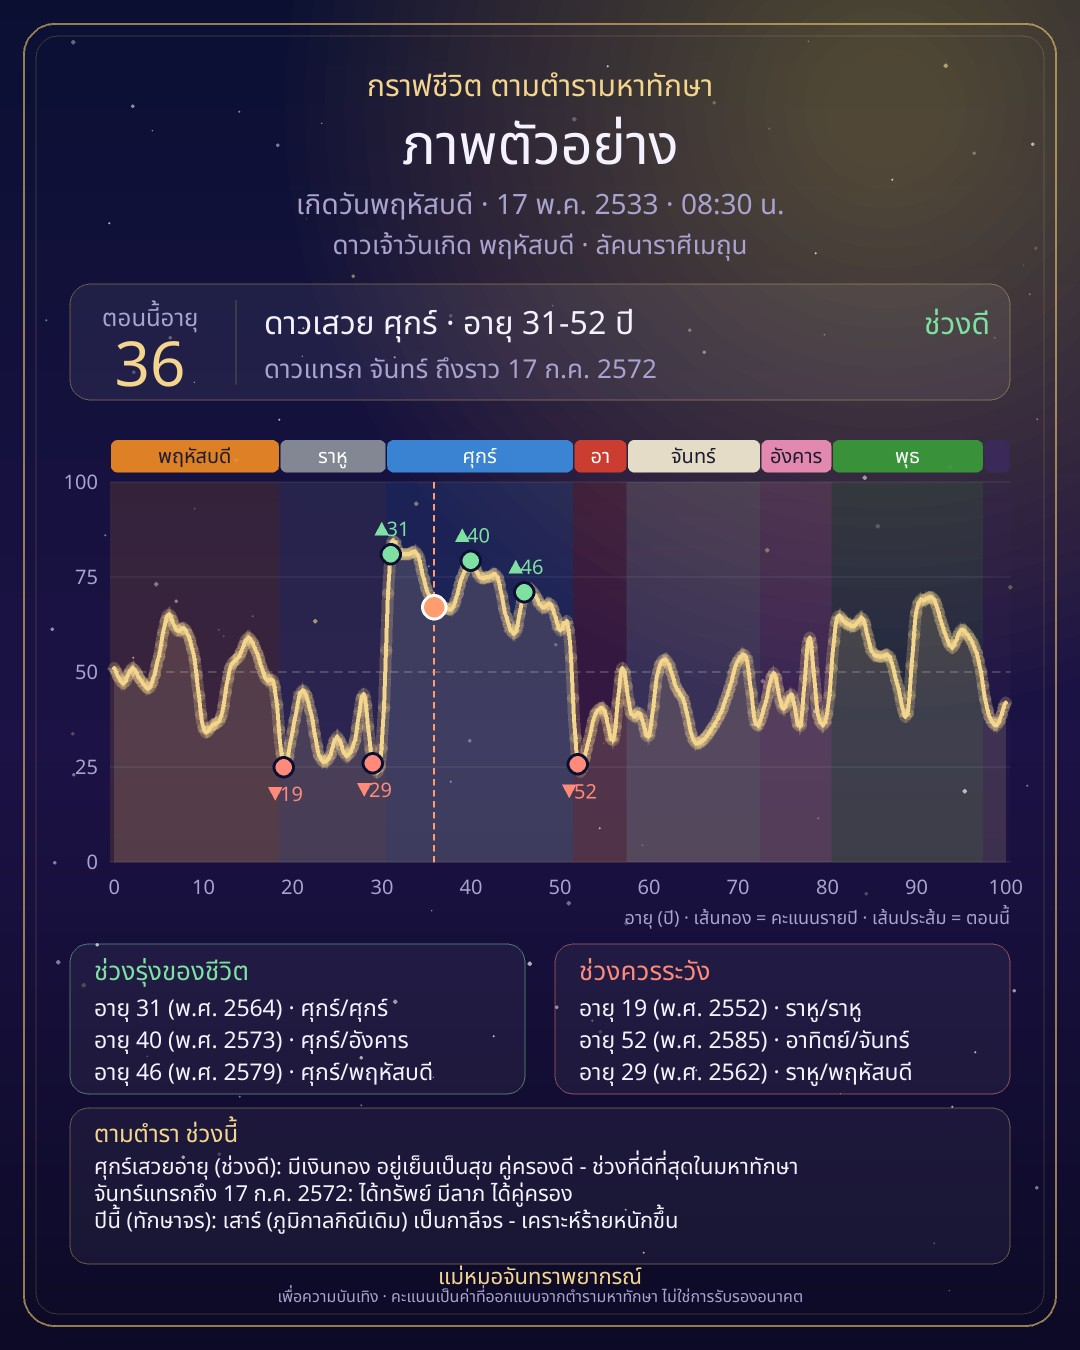
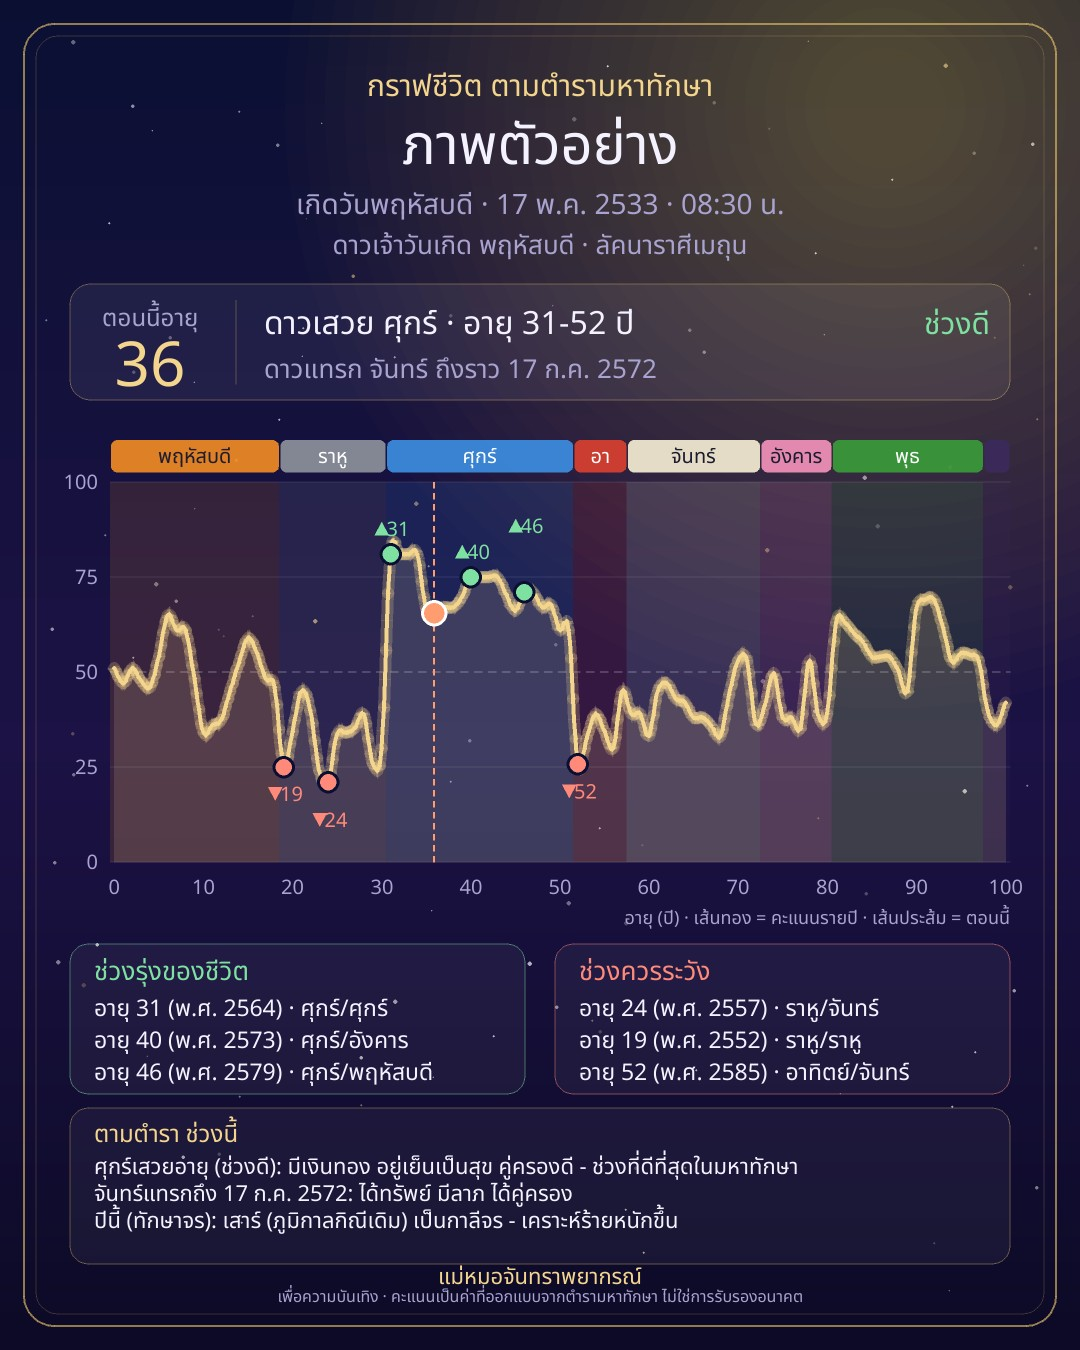
fix(fortune): life graph v3 — generic planet-pair score no longer overrides the ตำรา sub-period tone
Same fix as GenLotto: the คู่ดาว weight (±6) was added on top of the
specific เสวย-แทรก ตำรา (±5), so 5 สมพล pairs the ตำรา calls ร้าย scored
net positive. Pair now applies only where no SUB reading exists. Drop the
horasatthai citation from 4 SUB entries that site doesn't have (each still
has 2 sources). Parity fixtures regenerated from GenLotto v3; sales sample
life graph re-rendered.

diff --git a/app/Services/Fortune/LifeGraphTexts.php b/app/Services/Fortune/LifeGraphTexts.php
@@ -120,7 +120,7 @@ final class LifeGraphTexts
         // พุธเสวย
         '4-4' => ['tone' => 'ดี', 'text' => 'เงินทองและของมีค่าเพิ่มพูน ร่ำรวยขึ้น', 'src' => ['phromchat', 'horasatthai', 'thasung']],
         '4-7' => ['tone' => 'ร้าย', 'text' => 'ระวังพลัดพรากหรือสูญเสียของรัก', 'src' => ['phromchat', 'horasatthai', 'thasung']],
-        '4-5' => ['tone' => 'ผสม', 'text' => 'ได้ลาภจากผู้ใหญ่ แต่ไม่ควรเดินทางไกล ระวังภัยและโจร', 'src' => ['phromchat', 'horasatthai', 'thasung']],
+        '4-5' => ['tone' => 'ผสม', 'text' => 'ได้ลาภจากผู้ใหญ่ แต่ไม่ควรเดินทางไกล ระวังภัยและโจร', 'src' => ['phromchat', 'thasung']],
         '4-8' => ['tone' => 'ร้าย', 'text' => 'มีศัตรูผู้มีกำลัง ระวังอัคคีภัยและเจ็บไข้', 'src' => ['phromchat', 'horasatthai', 'thasung']],
         '4-6' => ['tone' => 'ดี', 'text' => 'มีลาภมาก', 'src' => ['phromchat', 'horasatthai', 'thasung']],
         '4-1' => ['tone' => 'ร้าย', 'text' => 'ระวังต้องโทษ มีอุปสรรค เสียทรัพย์', 'src' => ['phromchat', 'horasatthai', 'thasung']],
@@ -128,7 +128,7 @@ final class LifeGraphTexts
         '4-3' => ['tone' => 'ร้าย', 'text' => 'มีคดีความ ร้อนใจเรื่องบ้านและคนในบ้าน ระวังศัตรูและโจร', 'src' => ['phromchat', 'horasatthai', 'thasung']],
         // เสาร์เสวย
         '7-7' => ['tone' => 'ร้าย', 'text' => 'มีภัย เสียทรัพย์ ระวังโรคทางท้อง', 'src' => ['phromchat', 'horasatthai', 'thasung']],
-        '7-5' => ['tone' => 'ผสม', 'text' => 'ได้ลาภจากผู้ใหญ่หรือครูอาจารย์ แต่เดินทางไกลแล้วจะเสีย', 'src' => ['phromchat', 'horasatthai', 'thasung']],
+        '7-5' => ['tone' => 'ผสม', 'text' => 'ได้ลาภจากผู้ใหญ่หรือครูอาจารย์ แต่เดินทางไกลแล้วจะเสีย', 'src' => ['phromchat', 'thasung']],
         '7-8' => null, // ขัดกัน: พรหมชาติ/วัดท่าซุงว่าเสียก่อนแล้วได้ลาภ · horasatthai ว่าร้ายล้วน
         '7-6' => ['tone' => 'ผสม', 'text' => 'ช่วงแรกเสียของ มีเรื่องเพราะผู้หญิง ภายหลังมิตรให้ลาภ', 'src' => ['phromchat', 'horasatthai', 'thasung']],
         '7-1' => ['tone' => 'ร้าย', 'text' => 'เสียทรัพย์ ร้อนใจ มีเรื่องในครอบครัว', 'src' => ['phromchat', 'horasatthai', 'thasung']],
@@ -139,7 +139,7 @@ final class LifeGraphTexts
         '5-5' => ['tone' => 'ดี', 'text' => 'ผู้ใหญ่ให้ลาภ ได้ยศและชื่อเสียง', 'src' => ['phromchat', 'horasatthai', 'thasung']],
         '5-8' => ['tone' => 'ผสม', 'text' => 'ได้แล้วเสีย เสียทรัพย์ ร้อนใจเรื่องคนรัก', 'src' => ['phromchat', 'horasatthai', 'thasung']],
         '5-6' => ['tone' => 'ดี', 'text' => 'มีลาภมาก สุขสบาย', 'src' => ['phromchat', 'horasatthai', 'thasung']],
-        '5-1' => ['tone' => 'ผสม', 'text' => 'ได้ลาภ แต่ระวังปวดศีรษะหรือเจ็บที่ใบหน้า', 'src' => ['phromchat', 'horasatthai', 'thasung']],
+        '5-1' => ['tone' => 'ผสม', 'text' => 'ได้ลาภ แต่ระวังปวดศีรษะหรือเจ็บที่ใบหน้า', 'src' => ['phromchat', 'thasung']],
         '5-2' => null, // ขัดกัน: พรหมชาติ/horasatthai ว่าระวังผู้หญิง สูญทรัพย์ · วัดท่าซุงว่าได้ลาภ
         '5-3' => ['tone' => 'ร้าย', 'text' => 'ระวังคดีความ เสียทรัพย์', 'src' => ['phromchat', 'horasatthai', 'thasung']],
         '5-4' => ['tone' => 'ดี', 'text' => 'มีลาภ ได้ที่ดินไร่นา มีชื่อเสียง', 'src' => ['phromchat', 'horasatthai', 'thasung']],
@@ -148,7 +148,7 @@ final class LifeGraphTexts
         '8-8' => ['tone' => 'ร้าย', 'text' => 'เจ็บป่วย ระวังโรคทางท้อง และการสูญเสียในครอบครัว', 'src' => ['phromchat', 'horasatthai', 'thasung']],
         '8-6' => ['tone' => 'ดี', 'text' => 'มีลาภเข้า', 'src' => ['phromchat', 'horasatthai', 'thasung']],
         '8-1' => null, // ขัดกัน: ลำดับได้-เสียกลับกันระหว่างพรหมชาติ/horasatthai กับวัดท่าซุง
-        '8-2' => ['tone' => 'ร้าย', 'text' => 'ผู้ใหญ่ไม่พอใจ ถูกใส่ความ ระวังแพ้คดี', 'src' => ['phromchat', 'horasatthai', 'thasung']],
+        '8-2' => ['tone' => 'ร้าย', 'text' => 'ผู้ใหญ่ไม่พอใจ ถูกใส่ความ ระวังแพ้คดี', 'src' => ['phromchat', 'thasung']],
         '8-3' => ['tone' => 'ร้าย', 'text' => 'มีภัย ระวังเลือดตกยางออก เสียทรัพย์', 'src' => ['phromchat', 'horasatthai', 'thasung']],
         '8-4' => ['tone' => 'ผสม', 'text' => 'ได้ลาภก่อน แล้วเสียทรัพย์ภายหลัง', 'src' => ['phromchat', 'horasatthai', 'thasung']],
         '8-7' => ['tone' => 'ดี', 'text' => 'ได้ลาภ โดยเฉพาะจากมิตรสหาย', 'src' => ['phromchat', 'horasatthai', 'thasung']],

diff --git a/tests/Unit/Services/LifeGraphTest.php b/tests/Unit/Services/LifeGraphTest.php
@@ -27,13 +27,13 @@ class LifeGraphTest extends TestCase
 
     /** [วันเกิด, ชั่วโมงเกิด, จังหวัด, md5(json คะแนนอายุ 0–100), ช่วงดาวเสวย, พีค, ต่ำ, บรรทัดการ์ด 2 บรรทัดแรก] */
     private const GENLOTTO = [
-        ['1990-05-16', 21.5, 'กรุงเทพมหานคร', 'a68ca87be40feff68a935dbc3c525e96', '8:0-12,6:12-33,1:33-39,2:39-54,3:54-62,4:62-79,7:79-89,5:89-108', [12, 20, 27], [33, 7, 0],
+        ['1990-05-16', 21.5, 'กรุงเทพมหานคร', 'a15709029a4f0f3bb02655b76358d004', '8:0-12,6:12-33,1:33-39,2:39-54,3:54-62,4:62-79,7:79-89,5:89-108', [12, 21, 27], [33, 5, 0],
             ['อาทิตย์เสวยอายุ (ช่วงร้าย): ร้อนใจ มีเกณฑ์โยกย้ายที่อยู่ ระวังเรื่องกับผู้ใหญ่และคดีความ ดูแลสุขภาพและการเงินให้ดี', 'พฤหัสบดีแทรกถึง 16 ก.ค. 2570: ได้ลาภจากผู้ใหญ่หรือผู้ทรงศีล']],
-        ['1985-01-06', 8.25, 'กรุงเทพมหานคร', '4d14b1c9a7e93e32522a6b62deb84494', '1:0-6,2:6-21,3:21-29,4:29-46,7:46-56,5:56-75,8:75-87,6:87-108', [57, 95, 43], [75, 80, 0],
+        ['1985-01-06', 8.25, 'กรุงเทพมหานคร', 'ffd5b90d4c8c0f6bd2683ec4a577c0b1', '1:0-6,2:6-21,3:21-29,4:29-46,7:46-56,5:56-75,8:75-87,6:87-108', [57, 62, 71], [80, 75, 0],
             ['พุธเสวยอายุ (ช่วงดี): มีลาภและทรัพย์ ได้คู่ครอง ได้เป็นใหญ่ มียศ ชื่อเสียง และบริวาร', 'อาทิตย์แทรกถึง 22 พ.ค. 2570: ระวังต้องโทษ มีอุปสรรค เสียทรัพย์']],
-        ['1985-01-06', null, 'กรุงเทพมหานคร', 'd5ef2697360421ceb9f989cd5143e191', '1:0-6,2:6-21,3:21-29,4:29-46,7:46-56,5:56-75,8:75-87,6:87-108', [57, 65, 71], [75, 82, 51],
+        ['1985-01-06', null, 'กรุงเทพมหานคร', '36b01199a4a7a02a8951fdebd220ba42', '1:0-6,2:6-21,3:21-29,4:29-46,7:46-56,5:56-75,8:75-87,6:87-108', [57, 62, 71], [75, 80, 25],
             ['พุธเสวยอายุ (ช่วงดี): มีลาภและทรัพย์ ได้คู่ครอง ได้เป็นใหญ่ มียศ ชื่อเสียง และบริวาร', 'อาทิตย์แทรกถึง 22 พ.ค. 2570: ระวังต้องโทษ มีอุปสรรค เสียทรัพย์']],
-        ['1975-11-23', 14 + 10 / 60, 'เชียงใหม่', '7b14106dcc6b70f65c9d144d0f946e09', '1:0-6,2:6-21,3:21-29,4:29-46,7:46-56,5:56-75,8:75-87,6:87-108', [57, 65, 71], [51, 46, 75],
+        ['1975-11-23', 14 + 10 / 60, 'เชียงใหม่', '53d80692d65c555c588298c968574de0', '1:0-6,2:6-21,3:21-29,4:29-46,7:46-56,5:56-75,8:75-87,6:87-108', [57, 71, 65], [46, 51, 75],
             ['เสาร์เสวยอายุ (ช่วงร้าย): เสียทรัพย์ ระวังเจ็บป่วย อุบัติเหตุ ศัตรูเก่า และการสูญเสียของรัก มีเรื่องกับคนใกล้ตัว', 'ศุกร์แทรกถึง 18 ส.ค. 2570: ช่วงแรกเสียของ มีเรื่องเพราะผู้หญิง ภายหลังมิตรให้ลาภ']],
     ];
 
@@ -100,7 +100,7 @@ class LifeGraphTest extends TestCase
         $this->assertStringContainsString('ดาวแทรกตอนนี้ อาทิตย์ ถึงราว 22 พ.ค. 2570 = ตำราว่าร้าย', $block);
         $this->assertStringContainsString('ดาวแทรกถัดไป จันทร์ ตั้งแต่ราว 22 พ.ค. 2570 = ตำราว่าดี', $block);
         $this->assertStringContainsString('พุธ (ภูมิศรีเดิม) เป็นกาลีจร — การเงินฝืด', $block);
-        $this->assertStringContainsString('ช่วงรุ่งข้างหน้า อายุ 43, 57, 95 · ช่วงควรระวังข้างหน้า อายุ 75, 80 (จากคะแนนกราฟที่ระบบออกแบบ ไม่ใช่ตำรา)', $block, 'เฉพาะที่ยังมาไม่ถึง เรียงตามอายุ + บอกว่าไม่ใช่ตำรา');
+        $this->assertStringContainsString('ช่วงรุ่งข้างหน้า อายุ 57, 62, 71 · ช่วงควรระวังข้างหน้า อายุ 75, 80 (จากคะแนนกราฟที่ระบบออกแบบ ไม่ใช่ตำรา)', $block, 'เฉพาะที่ยังมาไม่ถึง เรียงตามอายุ + บอกว่าไม่ใช่ตำรา');
         $this->assertStringNotContainsString(LifeGraphTexts::PERIOD[4]['text'], $block, 'คำทายดาวเสวยเต็มอยู่ในบรรทัด ⏳ ของผังแล้ว ไม่ซ้ำ');
         $this->assertStringNotContainsString('{', $block);
 

diff --git a/app/Services/Fortune/LifeGraph.php b/app/Services/Fortune/LifeGraph.php
@@ -25,7 +25,7 @@ namespace App\Services\Fortune;
 final class LifeGraph
 {
     /** เปลี่ยนตำรา/น้ำหนัก ⇒ เพิ่มเลข (หน้าเว็บแสดงไว้ เทียบผลข้ามรุ่นได้) */
-    public const VERSION = 2;
+    public const VERSION = 3;
 
     /** 1 ปีในตำรามหาทักษา = 12 เดือน × 30 วัน × 60 นาฑี */
     public const NATHI_PER_YEAR = 21600;
@@ -51,6 +51,7 @@ final class LifeGraph
      *   main_* = ดาวเสวยอายุ (เต็มปี): main_nature = ตำราว่าช่วงดาวนั้นดี/ร้าย (LifeGraphTexts::PERIOD)
      *     · main_dignity / main_house_bad = ดาวเสวยในดวงเดิม (LifeGraphTexts::NATAL_RULE — sanook · bloggang)
      *   sub_* / pair / combo = ดาวแทรก คูณสัดส่วนเวลาที่แทรกในปีนั้น · combo = ตำราว่าคู่เสวย-แทรกดี/ร้าย (ผสม/ขัดกัน = 0)
+     *     · pair (ดาวคู่ทั่วไป) ใช้เฉพาะคู่ที่ไม่มีคำทายเสวย-แทรก (SUB = null) — มีคำทายแล้วตำราเฉพาะคู่ชนะ (v3)
      *   jon = ทักษาจรปีอายุ: ดาวเสวยเป็นศรีจร (+) / กาลีจร (−) — ภูมิเดิมของดาวเสวยได้ผลตาม LifeGraphTexts::JON
      *   tone = ผลรวมคะแนนของดาวเสวย (ไม่รวมดาวแทรก) ≥ good → ช่วงดี · ≤ bad → ช่วงร้าย
      */
@@ -302,7 +303,9 @@ final class LifeGraph
                     if ($t !== null && isset($w['combo'][$t['tone']])) {
                         $comps[] = ['key' => 'combo', 'planet' => $sp['planet'], 'delta' => $w['combo'][$t['tone']] * $share, 'reason' => 'ตำรา'.LifeGraphTables::planetTh($main).'เสวย '.LifeGraphTables::planetTh($sp['planet']).'แทรก: '.$t['text'].$tag];
                     }
-                    $kind = $sp['planet'] === $main ? null : self::pairKind($main, $sp['planet']);
+                    // คู่ดาว (ตำราดาวคู่ทั่วไป) ใช้เฉพาะคู่ที่ตำราเสวย-แทรกไม่มีคำทาย — ตำราเฉพาะคู่ชนะ
+                    //   (v2 ให้ทั้งสองชั้น: คู่สมพล +6 กลบตำรา "ร้าย" −5 ⇒ 5 คู่ร้ายได้คะแนนบวก — ตรวจพบ 2026-10-12)
+                    $kind = $sp['planet'] === $main || $t !== null ? null : self::pairKind($main, $sp['planet']);
                     if ($kind !== null) {
                         $comps[] = ['key' => 'pair', 'planet' => $sp['planet'], 'delta' => $w['pair'][$kind] * $share, 'reason' => 'ดาวเสวย'.LifeGraphTables::planetTh($main).'กับดาวแทรก'.LifeGraphTables::planetTh($sp['planet']).'เป็น'.$kind.$tag];
                     }
